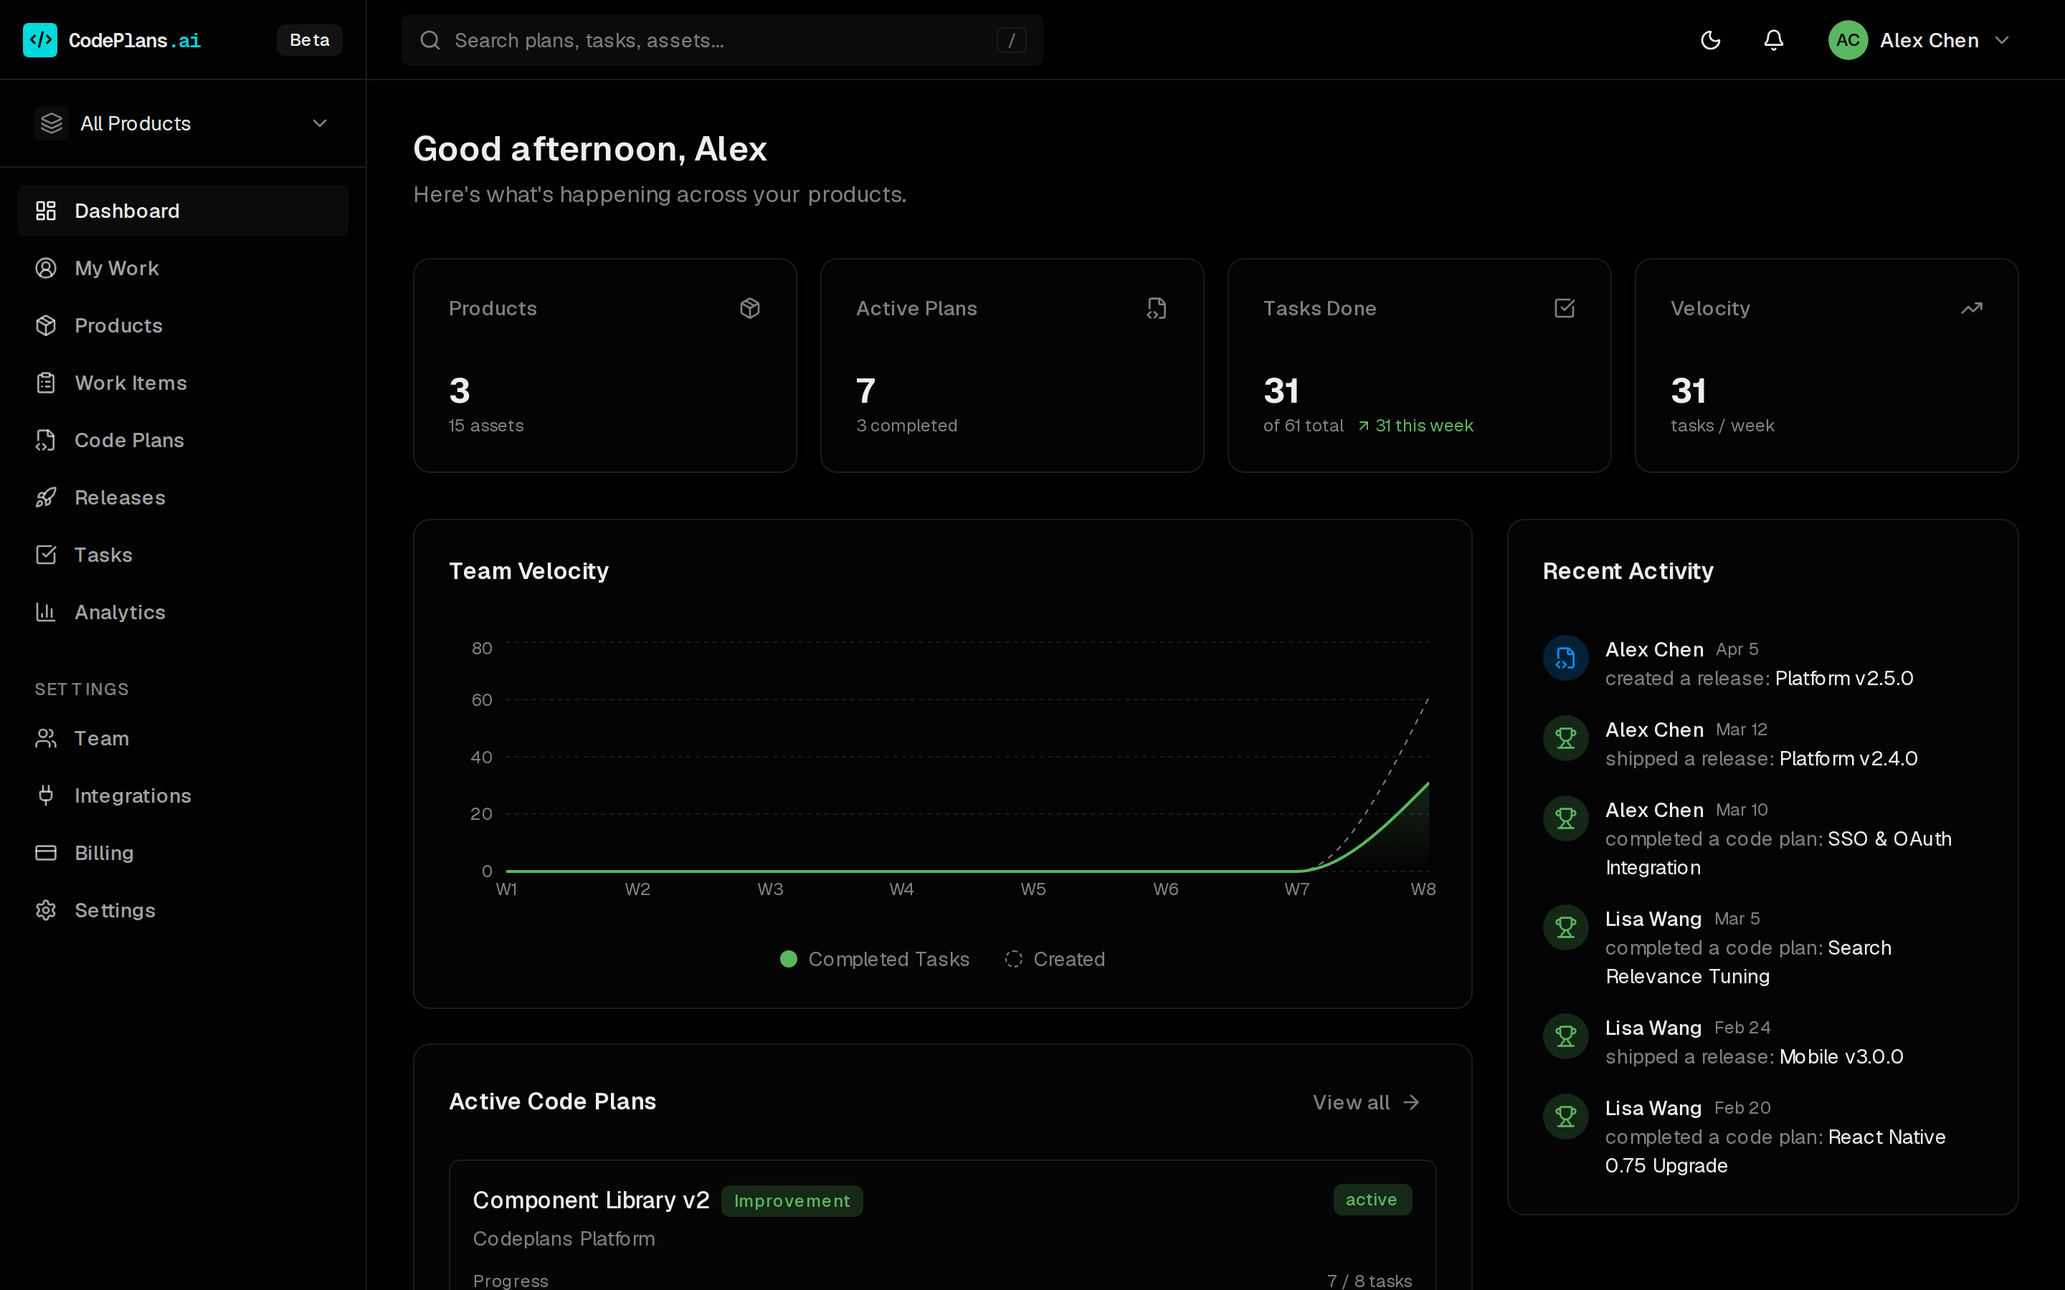
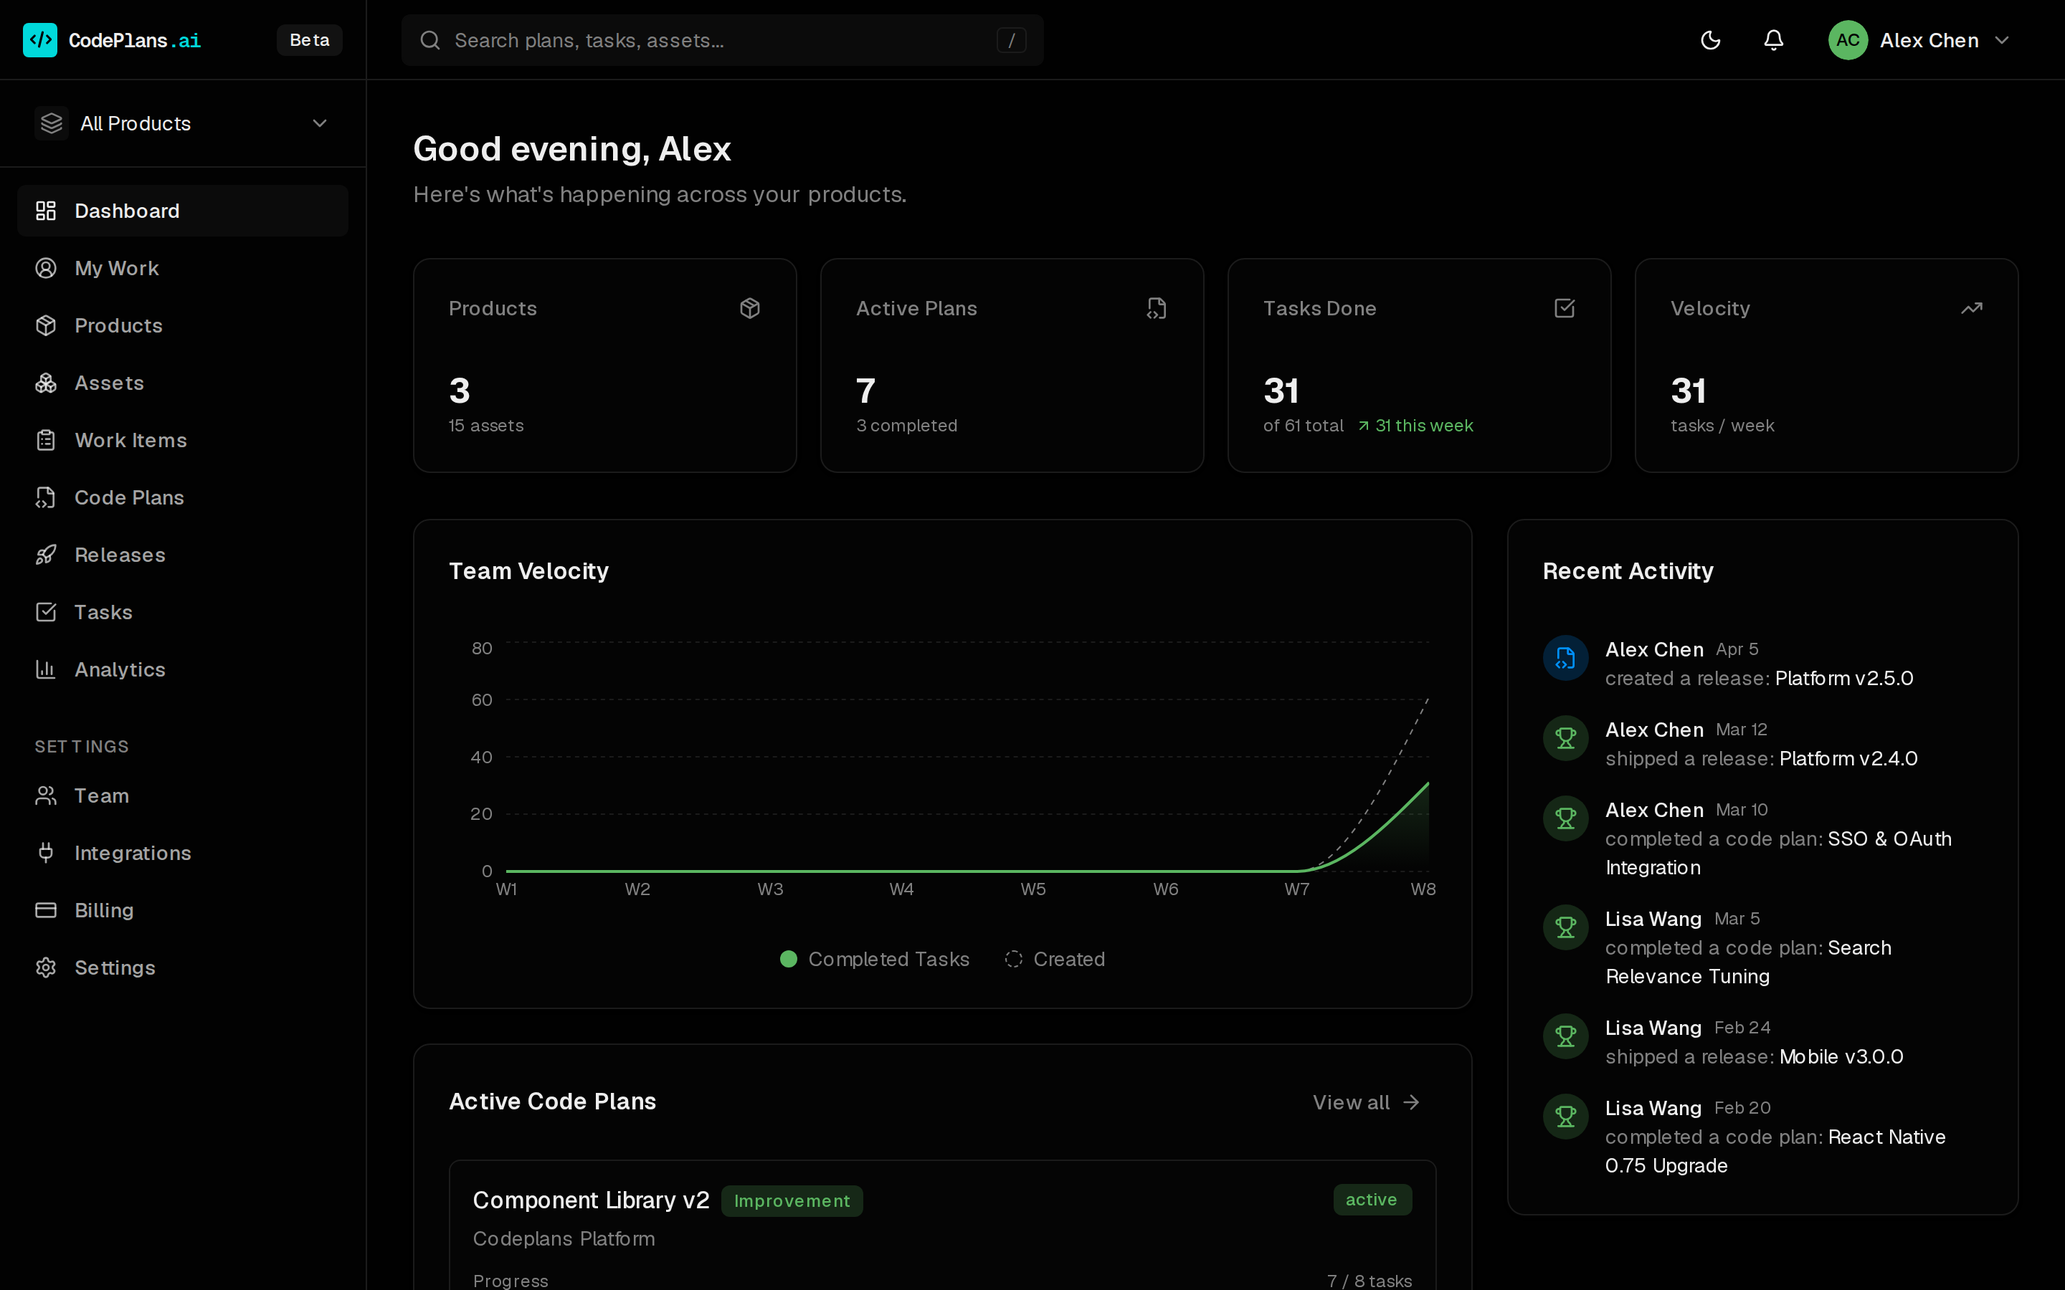
Asset Atlas spec, user guide, and a full screenshot refresh
- docs/specs/asset-atlas-spec.md: Phase A (v0.4.5, shipped) documented,
  plus the proposed path from picture to planning surface — Phase B
  focus mode (lens thresholds that select, not just color), Phase C
  transitive blast radius (click-to-pin, depth control, a who-to-notify
  rail computed client-side from shipped edges), Phase D plans started
  from the map (multi-select targets with live union blast radius,
  pre-filled plan creation). Explicit non-goals: no stored layout or
  annotations (derived-not-drawn is what keeps the map from rotting),
  no graph editing on the map, no runtime topology. Phases left
  unversioned, sequenced behind asset-record reconciliation.
- docs/guides/asset-atlas.md: user guide — the three views, lenses,
  edge-style legend, blast-radius hover, where each pixel's data comes
  from, and a pointer at the spec's future phases.
- Docs site: guide + spec cards added.
- All eight pre-Atlas tour screenshots recaptured — they predated the
  Assets sidebar entry; every shot now shows the current shell.
- README roadmap and app-spec link the new spec.

Claude-Session: https://claude.ai/code/session_01Y7FhGxYjnJHJ7m9MpH2dgJ

diff --git a/docs/index.html b/docs/index.html
@@ -594,6 +594,12 @@
         <p>The version-structured timeline every asset builds for itself, and how humans and agents record design notes worth keeping.</p>
         <div class="doc-arrow">Read → </div>
       </a>
+      <a class="doc-card" href="https://github.com/SylonZero/CodePlans/blob/master/docs/guides/asset-atlas.md">
+        <div class="doc-tag">Guide</div>
+        <h3>The Asset Atlas</h3>
+        <p>The live system map: lenses for health, debt, and activity, blast-radius hover, and the grid and table views beside it.</p>
+        <div class="doc-arrow">Read → </div>
+      </a>
       <a class="doc-card" href="https://github.com/SylonZero/CodePlans/blob/master/docs/guides/ai-agents.md">
         <div class="doc-tag">Guide</div>
         <h3>Working with AI Agents</h3>
@@ -610,6 +616,12 @@
         <div class="doc-tag">Design</div>
         <h3>Asset Record Spec</h3>
         <p>The capabilities register per asset shipped in v0.4.4. Next (v0.4.6+): agent-driven reconciliation against code and round-trip release publishing.</p>
+        <div class="doc-arrow">Read → </div>
+      </a>
+      <a class="doc-card" href="https://github.com/SylonZero/CodePlans/blob/master/docs/specs/asset-atlas-spec.md">
+        <div class="doc-tag">Design</div>
+        <h3>Asset Atlas Spec</h3>
+        <p>The map shipped in v0.4.5, and its path from picture to planning surface: lens thresholds, transitive blast radius, and plans started from the map.</p>
         <div class="doc-arrow">Read → </div>
       </a>
       <a class="doc-card" href="https://github.com/SylonZero/CodePlans/blob/master/docs/specs/mcp-server-spec.md">

diff --git a/docs/specs/asset-atlas-spec.md b/docs/specs/asset-atlas-spec.md
@@ -1,0 +1,183 @@
+# Asset Atlas — Design Spec
+
+> **Status: PHASE A SHIPPED `v0.4.5`; Phases B–D PROPOSED** (2026-08).
+> Companion to `asset-record-spec.md` (the record is what a node *is*; the
+> Atlas is where it *sits*) and `design-spec-v3.md`. Reuses the existing data
+> layer, access model, and MCP conventions unchanged.
+
+---
+
+## 1. Purpose & Positioning
+
+Assets are the main work surface of CodePlans — work items target them, plans
+change them, releases version them, records describe them — yet until v0.4.5
+they were only reachable by drilling through a product. The Atlas gives assets
+a first-class home, and stakes out a claim no tracker makes:
+
+**The architecture diagram that cannot rot.** Every team has a system diagram
+somewhere — a whiteboard photo, a Miro board, a wiki page — and every one of
+them is wrong within a quarter, because diagrams are *documents* maintained
+beside the system. The Atlas is not a document. It is a *projection* of the
+asset inventory and dependency edges the team already maintains to run its
+work. Add an asset, it appears; record a dependency, the edge draws; stamp a
+release, the version chip updates. The map is correct for the same reason the
+release notes are correct: it is derived, not drawn.
+
+The design direction across all phases: evolve the map from a **picture**
+(Phase A: see the system) into an **instrument** (Phase B: interrogate it)
+into a **planning surface** (Phases C–D: act on it). Each phase keeps the
+derived-not-drawn rule — the map never stores layout, annotations, or state of
+its own beyond ephemeral view preferences.
+
+### Litmus test
+
+An engineer new to the team opens `/assets`, and within one minute can answer:
+*what services exist, which ones are in trouble, what would break if I changed
+this one* — then click once more and read what that asset actually does (its
+Record). When planning a change, the same map is where the plan starts, with
+its blast radius visible before the first task is written.
+
+---
+
+## 2. Phase A — The Atlas `v0.4.5` ✅ SHIPPED
+
+Summarized for reference; see `docs/app-spec.md` (`/assets`) for the
+authoritative current state.
+
+- **Route & nav**: `/assets`, sidebar entry between Products and Work Items.
+  Respects the global product scope and `?product=`.
+- **Three views**: Map (default), Grid (cards), Table (sortable). Shared
+  stats strip, name/tag search, type + health filters.
+- **Map**: products as columns, assets as nodes (type icon, name, latest
+  shipped-version chip), `asset_dependencies` edges as curves — solid
+  *depends_on*, dashed *integrates_with*, dotted *aggregates*, arrowhead at
+  the target. **Lenses** recolor node accents by Health, Debt (effective
+  score, thresholds 25/50), or Activity (active plan targets). Hovering an
+  asset highlights its edges + direct neighbors and dims the rest; click
+  navigates to the asset.
+- **Layout**: deterministic, hand-rolled — barycenter-ordered columns, HTML
+  nodes over an SVG underlay. No graph library, no stored positions.
+- **Data**: `getAssetInventory(userId, { productId? })` — org-scoped assets
+  with effective debt score, open item/debt counts, active plan targets,
+  capability count, latest shipped version stamp, owners, plus the dependency
+  edges among them (edges leaving the scope are dropped so the map always
+  matches the node set).
+
+---
+
+## 3. Phase B — Focus mode: lens thresholds & map filtering (PROPOSED)
+
+A lens currently *colors* every node; focus mode lets it *select*. The
+question changes from "where is the debt?" to "show me only what matters and
+its context."
+
+### UX
+
+- Each lens gains an optional **threshold control** rendered beside the lens
+  pills when that lens is active:
+  - Health: `all · warning+ · critical`
+  - Debt: `all · ≥25 · ≥50`
+  - Activity: `all · active · quiet` (quiet inverts — find the unmaintained)
+- With a threshold set, the map enters **focus mode**: matching nodes render
+  full-strength, their direct neighbors render half-dimmed (context), and
+  everything else collapses to small dots so column shape is preserved
+  without noise. Edges not touching a matching node fade to near-invisible.
+- The stats strip re-counts to the focused set (`4 of 15 assets in focus`).
+  Grid and Table honor the same threshold as a plain filter — focus mode is
+  a map rendering, not a separate data path.
+- Search composes: a search query in focus mode intersects.
+
+### Non-goals
+
+No saved "views", no per-user map state beyond the existing persisted view
+preferences mechanism. Focus is a transient question, not a dashboard.
+
+---
+
+## 4. Phase C — Transitive blast radius (PROPOSED)
+
+Hover today shows direct neighbors — depth 1. Real incidents propagate.
+
+### UX
+
+- **Click-to-pin** an asset (hover stays as-is): the map enters **radius
+  mode** with the pinned asset marked. A depth control appears:
+  `direct · +2 · full closure`.
+- Downstream (dependents — who breaks) renders in the warning hue; upstream
+  (dependencies — who I lean on) renders muted; depth is shown on each edge
+  ring. The two directions are visually distinct because the questions are
+  different: *who do I hurt* vs *who can hurt me*.
+- A side rail lists the closure grouped by depth with owner avatars — the
+  "who to notify" list, copyable. Rows link to the asset; each row shows the
+  path (`Atlas → BFF → Mobile App`) on hover, since the *route* of the
+  impact is the reviewable claim.
+- Pinning composes with lenses (radius selects, lens colors) but suspends
+  Phase B focus mode — one selection mechanism at a time.
+- `Esc` or clicking the canvas unpins.
+
+### Data
+
+Transitive closure is computed client-side by BFS over the already-shipped
+edge list — no new queries. Cycles are handled by visited-set; depth is the
+shortest path. The existing `getImpactedAssets` (plan impact, depth 1) is
+unchanged; if plan detail later wants transitive impact, it reuses this
+traversal, not a new endpoint.
+
+---
+
+## 5. Phase D — The map as planning surface (PROPOSED)
+
+The Atlas closes the loop back into the core object model: plans start where
+their blast radius is visible.
+
+### UX
+
+- A **"Plan a change"** affordance on the map toggles target-selection mode:
+  clicking nodes multi-selects them as prospective plan targets (selection
+  chips accumulate in a floating bar).
+- The bar live-renders the union blast radius of the selection (Phase C
+  traversal, depth configurable) — *before a plan exists*, the cost of the
+  change is on screen.
+- **"Create plan"** opens the existing plan-create side panel pre-filled:
+  target assets = selection; product inferred when the selection is
+  single-product (multi-product selections offer the plan-per-product split
+  the model requires); the impact list is included in the description
+  scaffold as a checklist of assets to review, each with owners.
+- After creation, the map renders the new plan's targets with the standard
+  Activity-lens treatment. No plan geometry is stored — the plan is the
+  record; the map re-derives.
+
+### MCP
+
+One new read tool when Phase C/D land (not before):
+`get_asset_map(productId?)` returning the same shape the Atlas consumes —
+nodes with stats plus edges — so agents can answer "what breaks if X
+changes" and scaffold plans with the same blast-radius reasoning the UI
+shows humans. Write flows stay on the existing `create_code_plan` /
+`add_plan_asset` tools.
+
+---
+
+## 6. Explicitly Out of Scope
+
+- **Stored layout or annotations** — no dragging nodes, no sticky notes, no
+  saved positions. The moment layout is stored, the map is a document again
+  and starts rotting. (Deterministic layout is also what keeps two teammates'
+  maps identical.)
+- **A general graph editor** — edges are created where they are owned today
+  (asset detail / product dependency views / MCP), not by drawing on the map.
+- **Runtime topology** (service mesh, tracing, live traffic) — the Atlas maps
+  the *declared* architecture. Reconciling declared vs observed topology is
+  agent territory, and belongs beside the record's reconciliation phases
+  (`asset-record-spec.md` Phase B), not here.
+- **Cross-org or public sharing** of maps.
+
+---
+
+## 7. Sequencing
+
+Phases B–D are deliberately unversioned: they slot into the 4.x line as
+capacity allows, interleaved with the asset-record reconciliation work
+(`v0.4.6+`), which remains the strategic priority. B is small and can ride
+along with any release; C unlocks D and should precede it; D touches the
+plan-create flow and deserves its own release.

diff --git a/docs/guides/asset-atlas.md b/docs/guides/asset-atlas.md
@@ -1,0 +1,85 @@
+# The Asset Atlas
+
+Open **Assets** in the sidebar and you get the whole architecture on one
+screen: every asset across your products (or one product, when the global
+product filter is set), with three ways to look at it — a **Map**, a card
+**Grid**, and a sortable **Table**. A stats strip totals health, open debt,
+and active plan targets; search matches names and tags; type and health
+filters apply to all three views.
+
+The design principle is the same one that drives asset history and release
+notes: **derived, not drawn.** The map is a projection of the asset inventory
+and dependency edges your team already maintains to run its work — not a
+diagram anyone has to keep in sync. Add an asset and it appears; record a
+dependency and the edge draws itself; ship a release and the version chip
+updates. It cannot rot, because it is not a document.
+
+## The Map
+
+Products render as columns, assets as nodes. Each node carries its type icon,
+name, and the version stamped by the latest shipped release. Dependency edges
+draw as curves between nodes, with the line style telling you the
+relationship:
+
+| Style | Meaning |
+|---|---|
+| ─── solid | depends on |
+| – – dashed | integrates with |
+| ··· dotted | aggregates |
+
+The arrowhead points at the asset being depended on.
+
+### Lenses
+
+One map, three questions. The lens pills recolor every node's accent:
+
+- **Health** — the manually assessed health flag (healthy / warning /
+  critical). *Where is the system hurting?*
+- **Debt** — the effective tech-debt score (manual override, or
+  severity-weighted from open tech-debt items). Green under 25, amber to 50,
+  red beyond. *Where is the debt concentrated?*
+- **Activity** — assets currently targeted by active code plans light up;
+  quiet assets stay muted. *Where is work happening right now — and what is
+  nobody touching?*
+
+### Blast radius
+
+Hover any asset: its dependency edges and direct neighbors stay lit while the
+rest of the map dims. That is the question every change starts with — *what
+does this touch?* — answered before you open a plan. Click through to land on
+the asset's detail page, where the [Record](asset-history.md) says what it
+does and History says how it got there.
+
+## Grid & Table
+
+The **Grid** shows each asset as a card: health dot, version chip, active
+plan / open debt / capability counts, a debt-score bar, and owner avatars —
+the browsing view. The **Table** is the dense view: sortable by name,
+product, debt score, active plans, or last-shipped date. Sorting by debt
+descending is the de-facto debt review; sorting by last shipped ascending
+finds what has not moved in months.
+
+## Where the data comes from
+
+| On the map | Maintained in |
+|---|---|
+| Nodes | Assets, created on product pages or via MCP (`create_asset`) |
+| Edges | Asset dependencies (asset detail → Dependencies, product pages, or `add_asset_dependency`) |
+| Version chips | Release version stamps ([releases](releases-and-versions.md)) |
+| Health colors | The asset `health` flag |
+| Debt colors | Open tech-debt work items (or a manual score override) |
+| Activity | Active code plans targeting the asset |
+
+A sparse map is a prompt, not a failure: if the Atlas looks emptier than your
+real system, the fastest fix is an agent-driven modeling pass — see
+[Modeling Monorepos](modeling-monorepos.md) and the MCP
+[modeling tools](ai-agents.md).
+
+## What's next
+
+The map is a picture today; the
+[Asset Atlas spec](../specs/asset-atlas-spec.md) lays out its path to an
+instrument: lens thresholds that focus the map on what matters (Phase B),
+transitive blast radius with a "who to notify" rail (Phase C), and starting a
+plan directly from the map with its impact visible before the first task is
+written (Phase D).

diff --git a/README.md b/README.md
@@ -412,7 +412,7 @@ Your agent can then read plans/work items/tech debt and (with a write-scope key)
 - [x] **v0.4.2 — Version-structured history & design log:** version ladder on asset history, user/agent-authored design notes, plan-side release picker, 10 new MCP tools (39 total)
 - [x] **v0.4.3 — AI drafting (feature-flagged):** release notes & design notes drafted from delivered work, always landing in an editor
 - [x] **v0.4.4 — Asset Record (Phase A):** per-asset capabilities register with delivery lineage, graduation from resolved work items, derived known-issues/debt sections, tombstoned removals, `get_asset_record` + `graduate_work_item` MCP tools (41 total)
-- [x] **v0.4.5 — Asset Atlas:** top-level Assets view — a live system map (products as columns, dependency edges, health/debt/activity lenses, blast-radius hover) plus grid and sortable table views
+- [x] **v0.4.5 — Asset Atlas** (see [`docs/specs/asset-atlas-spec.md`](docs/specs/asset-atlas-spec.md)): top-level Assets view — a live system map (products as columns, dependency edges, health/debt/activity lenses, blast-radius hover) plus grid and sortable table views
 - [ ] **v0.4.6+ — Reconciliation & round-trip engineering** (see [`docs/specs/asset-record-spec.md`](docs/specs/asset-record-spec.md)): agent reconciliation proposals, release publishing
 - [ ] AI-assisted effort estimation
 - [ ] Billing / subscription management (hosted tier, optional & feature-flagged)

diff --git a/docs/app-spec.md b/docs/app-spec.md
@@ -293,7 +293,7 @@ Two tabs: **Assets** and **Code Plans**.
 
 ---
 
-#### `/assets` — Asset Atlas (v0.4.5)
+#### `/assets` — Asset Atlas (v0.4.5; future phases in `docs/specs/asset-atlas-spec.md`)
 Top-level inventory of every visible asset (respects the global product scope + `?product=`), with a stats strip (totals, health breakdown, open debt, active plan targets), search (name/tag), and type/health filters. Three views:
 - **Map** (default) — a system map drawn live from the inventory: products as columns, assets as nodes (type icon, name, shipped-version chip), `asset_dependencies` edges as curves (line style per dependency type: solid depends_on, dashed integrates_with, dotted aggregates, arrowheads at the target). **Lenses** recolor node accents and detail lines by Health, Debt (effective score thresholds 25/50), or Activity (active plan targets). Hovering an asset highlights its edges and neighbors and dims the rest (blast radius); click navigates to the asset. Hand-rolled deterministic layout (barycenter-ordered columns) — HTML nodes over an SVG underlay, no graph library.
 - **Grid** — cards: type icon, product, health dot, version chip, active plans / open debt / capabilities counts, debt-score bar, owners.
